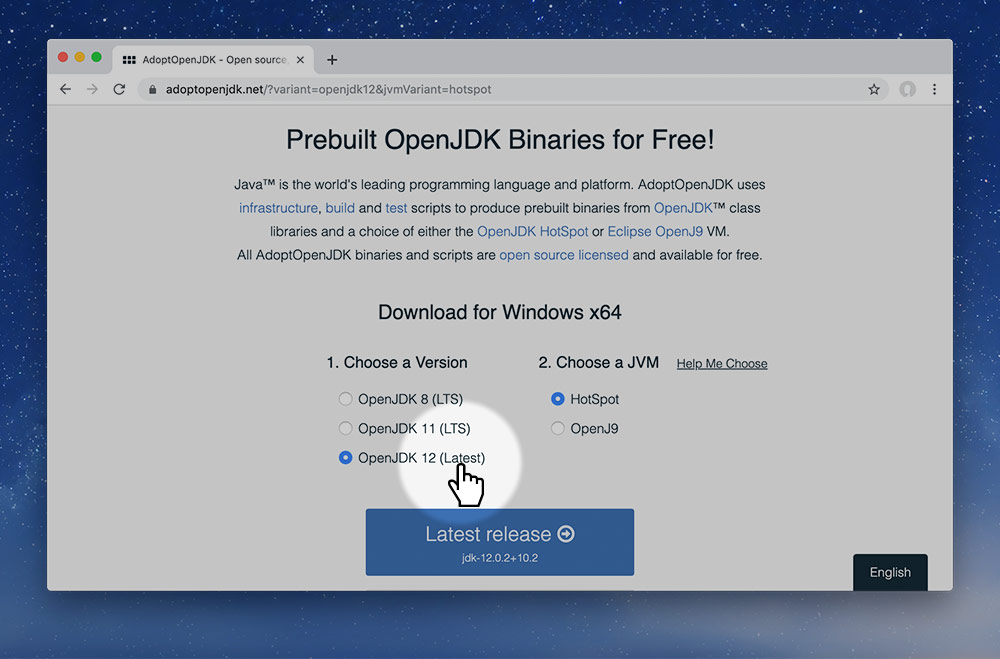
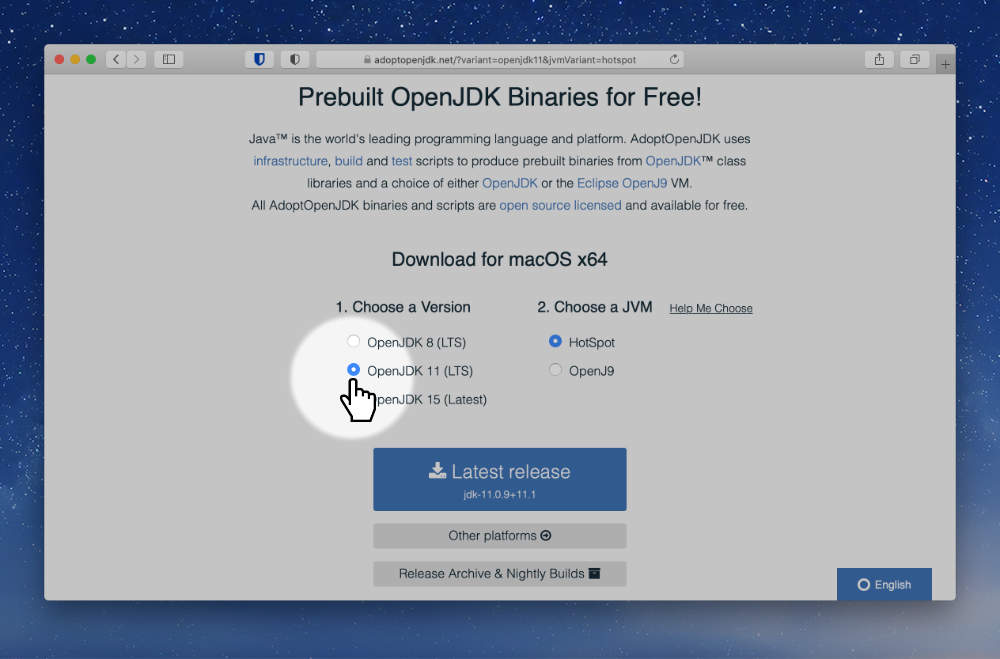
Update instructions to request installing OpenJDK/11

diff --git a/install-all-the-things.md b/install-all-the-things.md
@@ -161,7 +161,7 @@ steps:
 
       ![](jdk.jpg)
 
-      **Choose the “latest” version of OpenJDK at the bottom of the list.**
+      **Choose the “Open JDK 11 (LTS)” version of OpenJDK at the bottom of the list.**
 
       1. Download the JDK for your computer.
       3. Double click the installer and let it do its thing.

diff --git a/install-all-the-things-windows.md b/install-all-the-things-windows.md
@@ -97,7 +97,7 @@ steps:
 
       ![](jdk.jpg)
 
-      **Choose the “latest” version of OpenJDK at the bottom of the list.**
+      **Choose the “Open JDK 11 (LTS)” version of OpenJDK at the bottom of the list.**
 
       1. Download the JDK for your computer.
       3. Double click the installer and let it do its thing.
